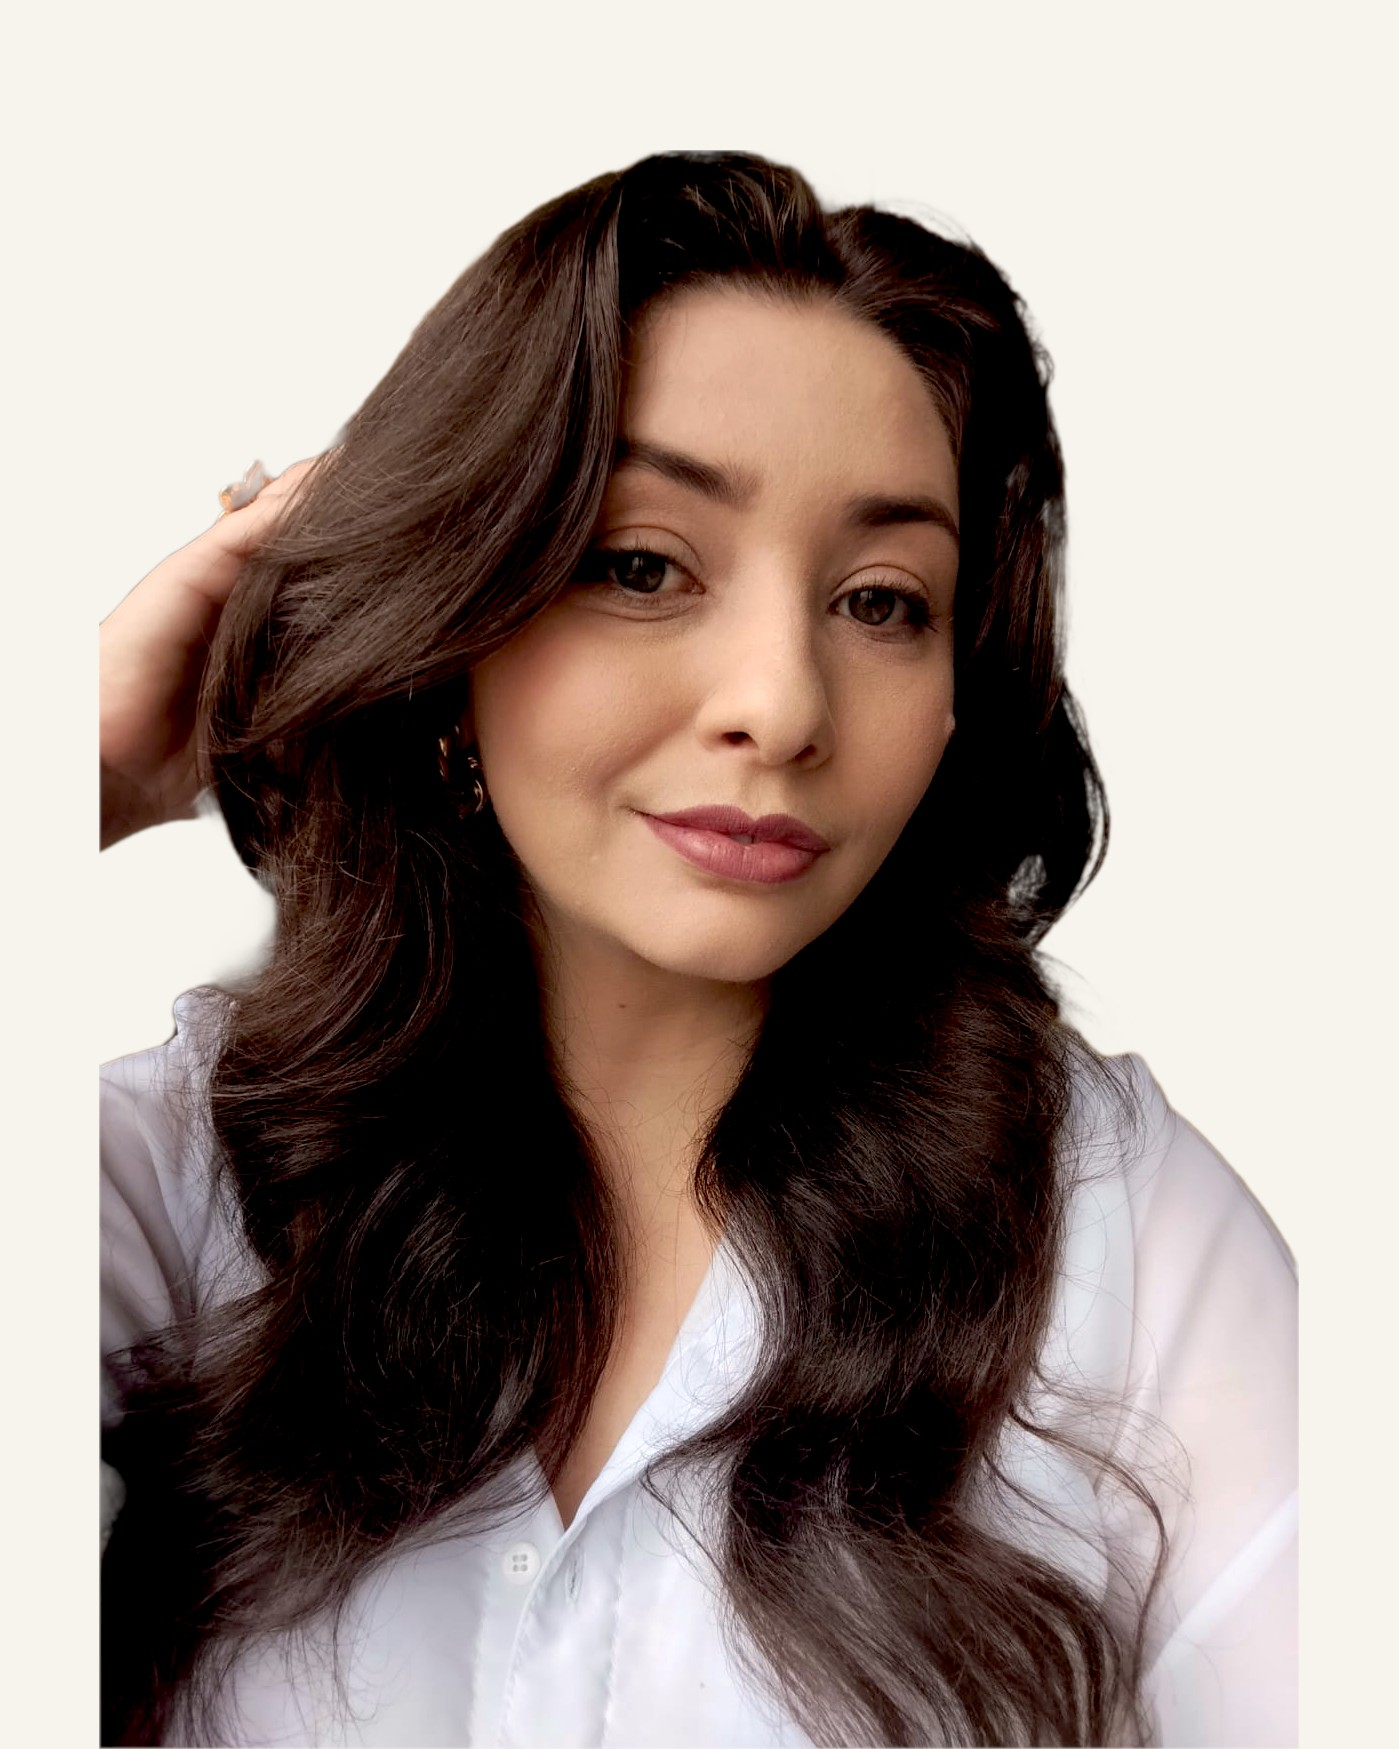
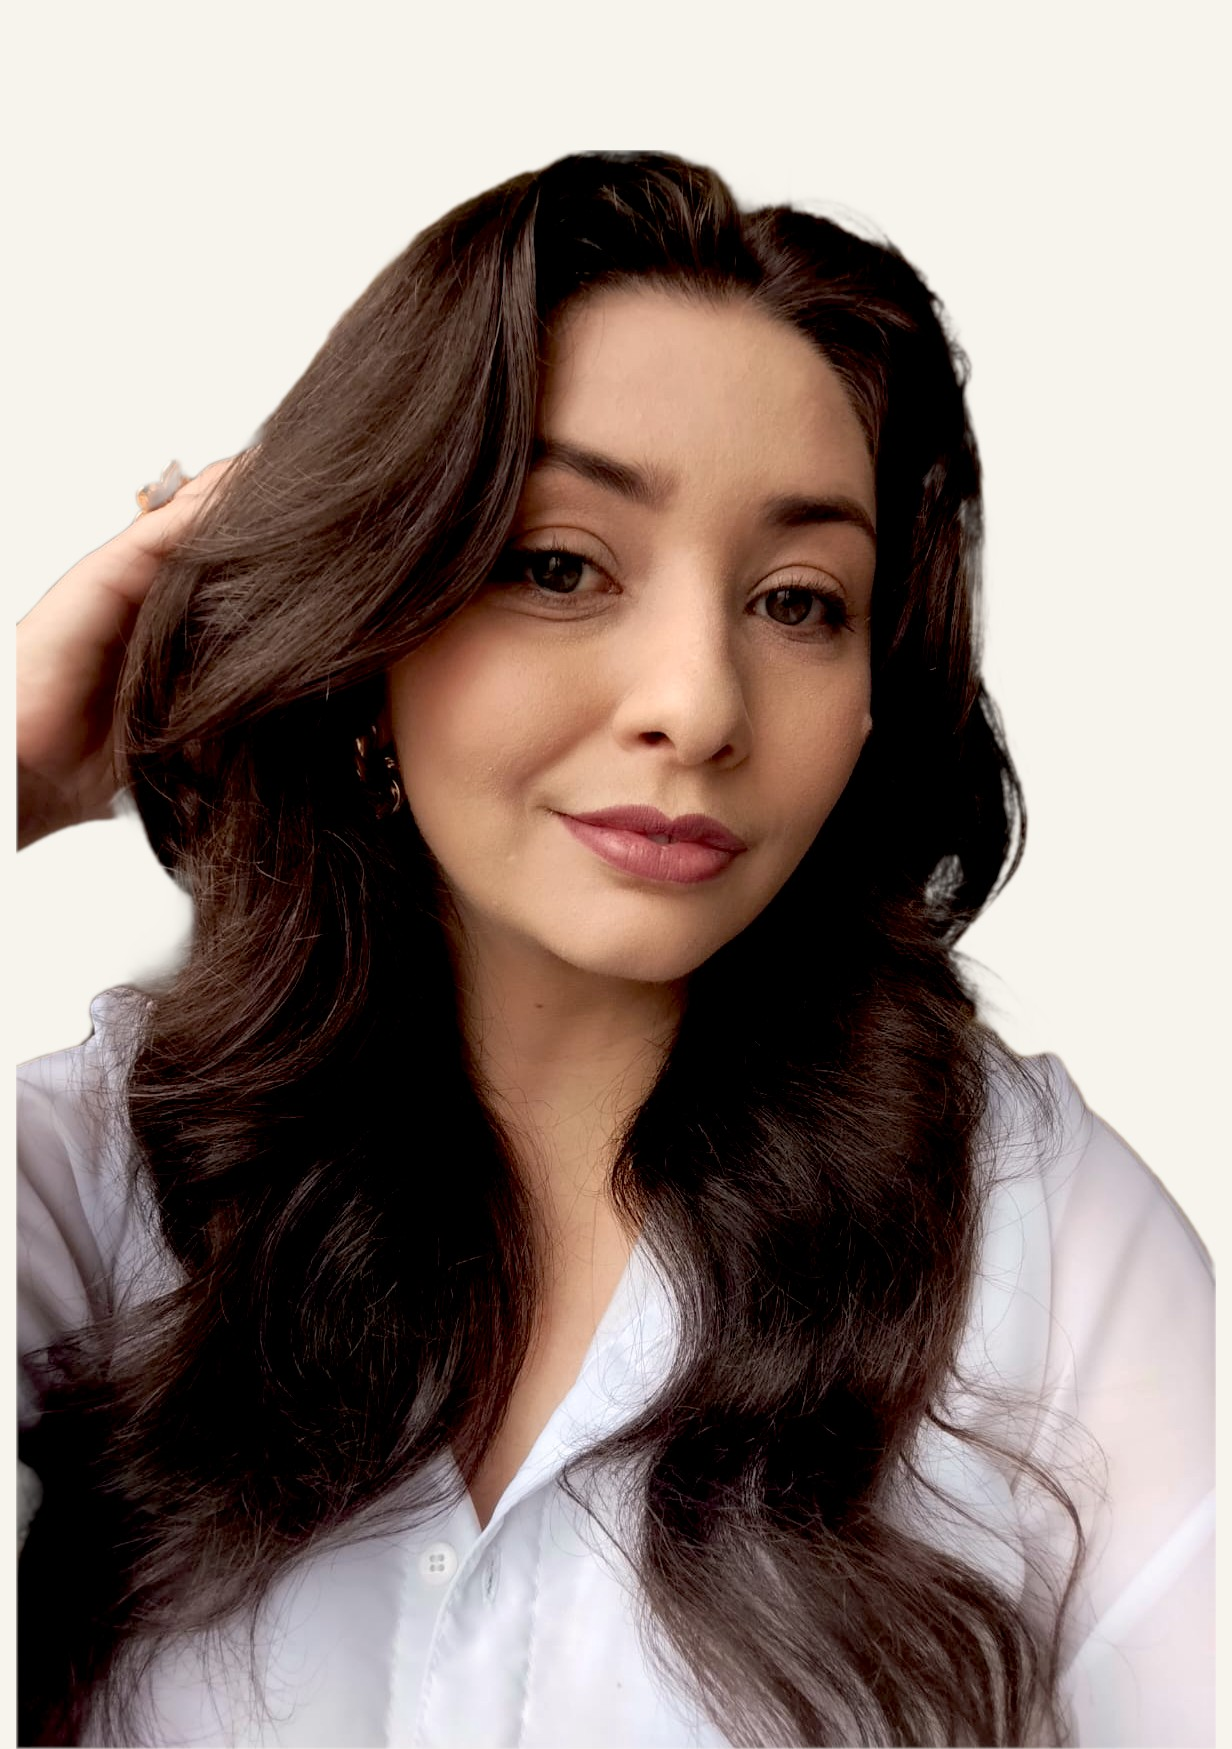
Seção Sobre: remove faixas laterais; moldura na proporção da figura

diff --git a/index.html b/index.html
@@ -281,6 +281,7 @@ em.gold{font-style:italic; font-weight:300; background:var(--gold-leaf); -webkit
    SOBRE BIANCA
    ====================================================================== */
 .about{background:var(--white)}
+.about .frame{aspect-ratio:1232/1749}
 .about .frame-rule{border-color:rgba(247,244,238,.5)}
 .about .signature{font-family:var(--font-display); font-style:italic; font-size:1.8rem; color:var(--emerald-900); margin-top:30px}
 .about .cred{margin-top:18px; display:grid; gap:10px}
@@ -383,7 +384,7 @@ em.gold{font-style:italic; font-weight:300; background:var(--gold-leaf); -webkit
   .menu-toggle{display:block}
   .split{grid-template-columns:1fr; gap:36px}
   .split.reverse .split-media{order:0}
-  .split-media .frame{aspect-ratio:4/5 !important; max-width:440px; margin-inline:auto}
+  .split-media .frame{max-width:440px; margin-inline:auto}
   .svc-grid{grid-template-columns:1fr}
   .pkg-grid{grid-template-columns:1fr}
   .steps-grid{grid-template-columns:1fr}
